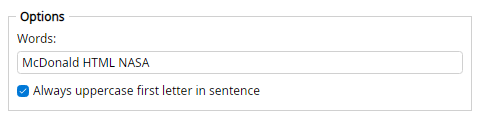
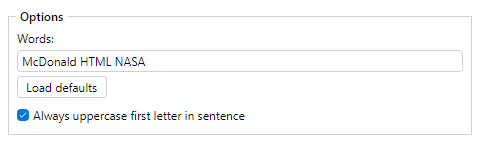
Document Casing List Load defaults and refresh the help screenshot.
Keeps filter help aligned with the new factory-words button and shared sample list.

diff --git a/help/filters/case/CasingList.html b/help/filters/case/CasingList.html
@@ -17,14 +17,15 @@
     <hr />
     <h1>Casing List</h1>
     <figure class="screenshot">
-      <img src="../../images/CasingList.png" alt="Casing List options" width="480" height="119" />
+      <img src="../../images/CasingList.png" alt="Casing List options" width="480" height="143" />
       <figcaption>Filter options.</figcaption>
     </figure>
         <p>Rewrites whole words to the exact spelling from a casing list. Words are split by the current word separator (see Space Character).</p>
         <p>Words not in the list stay unchanged. You can also uppercase sentence initials using Sentence End Characters.</p>
     <h2>Options</h2>
         <ul class="options">
-          <li><span class="quote">Words</span> — Space-separated words. Matching is case-insensitive; replacement keeps the list spelling.</li>
+          <li><span class="quote">Words</span> — Space-separated words. Matching is case-insensitive; replacement keeps the list spelling. New filters start empty.</li>
+          <li><span class="quote">Load defaults</span> — Replaces Words with the curated factory list (title-case exceptions, particles, and media acronyms). Same list as the Beautify Names sample; not merged with existing text.</li>
           <li><span class="quote">Always uppercase first letter in sentence</span> — When checked, capitalizes the first letter of each sentence.</li>
         </ul>
     <h2>Examples</h2>

diff --git a/Mfr.Filters/docs/Case/CasingList.md b/Mfr.Filters/docs/Case/CasingList.md
@@ -7,6 +7,10 @@ Optional **sentence-initial** uppercasing uses [SentenceEndCharacters](SentenceE
 ## Options
 
 - **`words`** (`string[]`) — Words to apply by exact spelling. Duplicates: **last wins**.
+  - Add-to-list and title-bar Reset still start with an **empty** list. The Filter Configuration
+    **Load defaults** button replaces the Words box with the curated factory list (`DefaultWords`:
+    title-case exceptions, multilingual particles, and common rename/media acronyms). That same
+    list is used by the Beautify Names sample preset; it is **not** merged with existing text.
 - **`uppercaseSentenceInitial`** (bool, default `false`)
   - If `true`, after list application, uppercases sentence starts with the same boundary rules as
     [LettersCase](LettersCase.md) **SentenceCase** (first letter, scanning past leading non-letters; after
@@ -14,7 +18,7 @@ Optional **sentence-initial** uppercasing uses [SentenceEndCharacters](SentenceE
 
 ## Editor text format
 
-The Filter Configuration pane edits `words` as **space-separated** text (e.g. `and or with RMX`). Each word is limited to the configured maximum (default 2000 characters; same cap as name-list lines and replace-list search/replacement).
+The Filter Configuration pane edits `words` as **space-separated** text (e.g. `and or with RMX`). Each word is limited to the configured maximum (default 2000 characters; same cap as name-list lines and replace-list search/replacement). Use **Load defaults** to fill the box from the factory list described above.
 
 ## Examples
 

diff --git a/docs/plans/casing-list-factory-words.plan.md b/docs/plans/casing-list-factory-words.plan.md
@@ -7,7 +7,7 @@
 | curate-default-words | Done |
 | editor-load-button | Done |
 | sample-reuse | Done |
-| docs-tests | Open |
+| docs-tests | Done |
 
 ## Decisions (locked)
 
